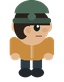
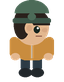
옆모습 귀와 눈 가림 현상 추가 수정

Changed region(s): [[0.3438, 0.2683, 0.6562, 0.439], [0.75, 0.2683, 0.8125, 0.3902], [0.1562, 0.2683, 0.25, 0.3902]]

diff --git a/Project/pico_heist/art_sprites.py b/Project/pico_heist/art_sprites.py
@@ -110,11 +110,12 @@ def pico(direction="down", frame=0):
     p.ell((40, 40 + bob, 54, 55 + bob), GREEN)
     p.ell((11, 49 + bob, 21, 57 + bob), FUR)
     p.ell((43, 49 + bob, 53, 57 + bob), FUR)
-    # ---- ears
-    p.ell((9, 20, 25, 38), FUR)
-    p.ell((39, 20, 55, 38), FUR)
-    p.ell((12, 24, 21, 33), FUR_D)
-    p.ell((43, 24, 52, 33), FUR_D)
+    # ---- ears (옆모습은 아래에서 귀 하나만 따로 그린다)
+    if direction not in ("left", "right"):
+        p.ell((9, 20, 25, 38), FUR)
+        p.ell((39, 20, 55, 38), FUR)
+        p.ell((12, 24, 21, 33), FUR_D)
+        p.ell((43, 24, 52, 33), FUR_D)
     # ---- head
     p.ell((14, 10, 50, 46), FUR)
     if direction == "up":
@@ -127,15 +128,12 @@ def pico(direction="down", frame=0):
     elif direction in ("left", "right"):
         # 옆모습은 왼쪽을 보고 그린 뒤, 오른쪽은 마지막에 전체를 반전한다.
         # (몸만 먼저 반전하면 얼굴이 여전히 왼쪽을 봐서 어색해진다.)
-        p.ell((8, 28, 30, 44), MUZZLE)          # 주둥이
-        p.ell((14, 31, 22, 39), INK)            # 코
-        p.pie((15, 10, 49, 44), 90, 270, MUZZLE)  # 얼굴 하단 밝게
-        p.ell((24, 22, 31, 30), INK)            # 눈
-        p.ell((25.5, 23.5, 28, 26), CREAM)      # 눈 하이라이트
-        p.pline([(16, 38), (21, 40)], FUR_D, 1.2)
+        p.ell((8, 29, 28, 43), MUZZLE)          # 주둥이 (옆으로 짧게)
+        p.ell((12, 32, 20, 39), INK)            # 코
+        p.pline([(15, 39), (21, 41)], FUR_D, 1.2)
         p.rr((30, 36 + bob, 50, 58 + bob), 7, "#3E5B44", "#2A4030", 1.0)  # 배낭
-        p.ell((34, 24, 48, 38), FUR)            # 반대쪽 귀
-        p.ell((37, 27, 45, 35), FUR_D)
+        p.ell((34, 16, 48, 34), FUR)            # 옆모습 귀 하나
+        p.ell((37, 20, 45, 30), FUR_D)
     else:  # down
         p.ell((22, 30, 42, 44), MUZZLE)
         p.ell((28, 31, 36, 37), INK)
@@ -152,6 +150,11 @@ def pico(direction="down", frame=0):
     p.rr((13, 25, 51, 31), 3.2, AMBER_D)
     p.ell((28, 1, 36, 9), CREAM)
     p.pie((18, 7, 30, 22), 200, 320, "#F2BC63")
+    if direction in ("left", "right"):
+        # 비니에 가리지 않도록 눈은 모자 위에 다시 그린다.
+        p = Pen(im, ss)
+        p.ell((25, 26, 32, 34), INK)
+        p.ell((26.5, 27.5, 29, 30), CREAM)
     if direction == "right":
         im = ImageOps.mirror(im)
     return down(im, w, h)
@@ -211,8 +214,9 @@ def camper(variant=0, direction="down", frame=0, sitting=False):
     p.ell((44, 53 + bob, 53, 60 + bob), skin)
     # head
     p.ell((15, 9, 49, 45), skin)
-    p.ell((12, 20, 19, 32), skin)   # 귀
-    p.ell((45, 20, 52, 32), skin)
+    if direction not in ("left", "right"):
+        p.ell((12, 20, 19, 32), skin)   # 정면·후면 귀 두 개
+        p.ell((45, 20, 52, 32), skin)
     if direction == "up":
         p.pie((14, 8, 50, 40), 180, 360, hair)
         p.rect((14, 10, 50, 26), hair)
@@ -222,10 +226,8 @@ def camper(variant=0, direction="down", frame=0, sitting=False):
         # 얼굴 앞(왼쪽)은 살색으로 남기고 머리는 위쪽과 뒤쪽만 덮는다.
         p.pie((14, 8, 50, 42), 180, 360, hair)   # 정수리·앞머리
         p.ell((34, 9, 50, 39), hair)             # 뒤통수
-        p.ell((31, 26, 40, 36), skin)            # 귀
-        p.ell((33, 28, 38, 33), "#D9A882")
-        p.ell((24, 24, 30, 31), INK)             # 눈
-        p.ell((25, 25, 27, 27.5), CREAM)
+        p.ell((30, 22, 39, 34), skin)            # 옆모습 귀 하나
+        p.ell((32, 25, 37, 31), "#D9A882")
         p.ell((16, 28, 22, 32), "#D9A882")       # 코
         p.pline([(22, 36), (28, 36)], "#8E5A48", 1.2)
     else:
@@ -241,6 +243,11 @@ def camper(variant=0, direction="down", frame=0, sitting=False):
         p.pie((15, 0, 49, 26), 180, 360, "#4C6B58")
         p.rr((13, 18, 51, 23), 2, "#3A5346")
         p.ell((28, 13, 36, 20), "#4C6B58")
+    if direction in ("left", "right"):
+        # 모자에 가리지 않도록 눈은 마지막에 다시 그린다.
+        p = Pen(im, ss)
+        p.ell((24, 26, 30, 33), INK)
+        p.ell((25, 27, 27, 29), CREAM)
     if direction == "right":
         im = ImageOps.mirror(im)
     return down(im, w, h)
